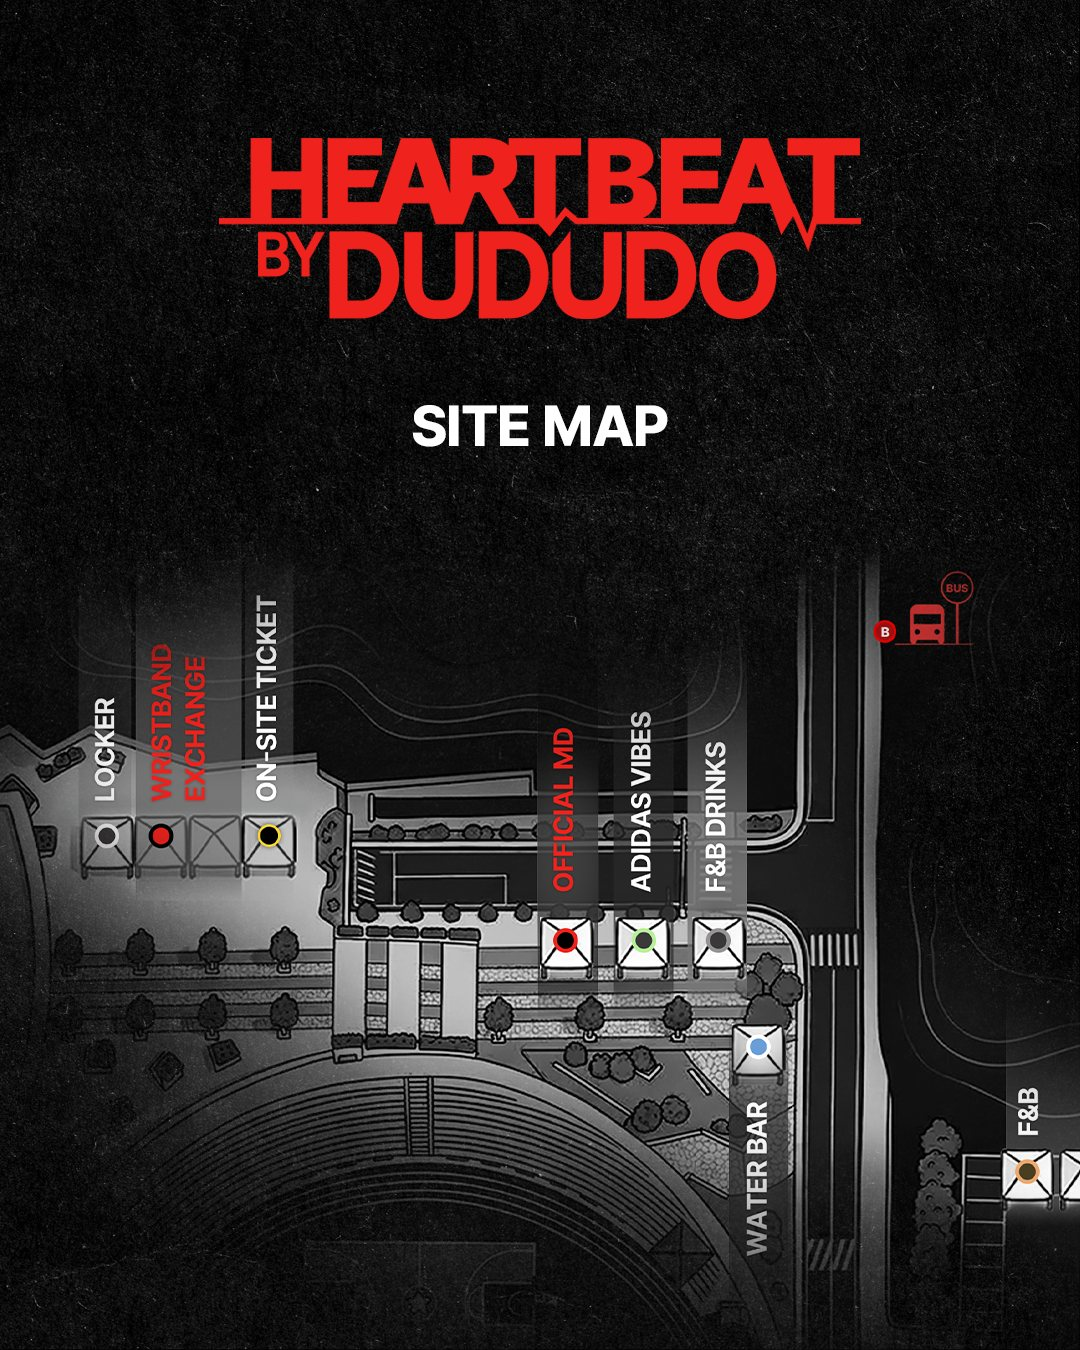
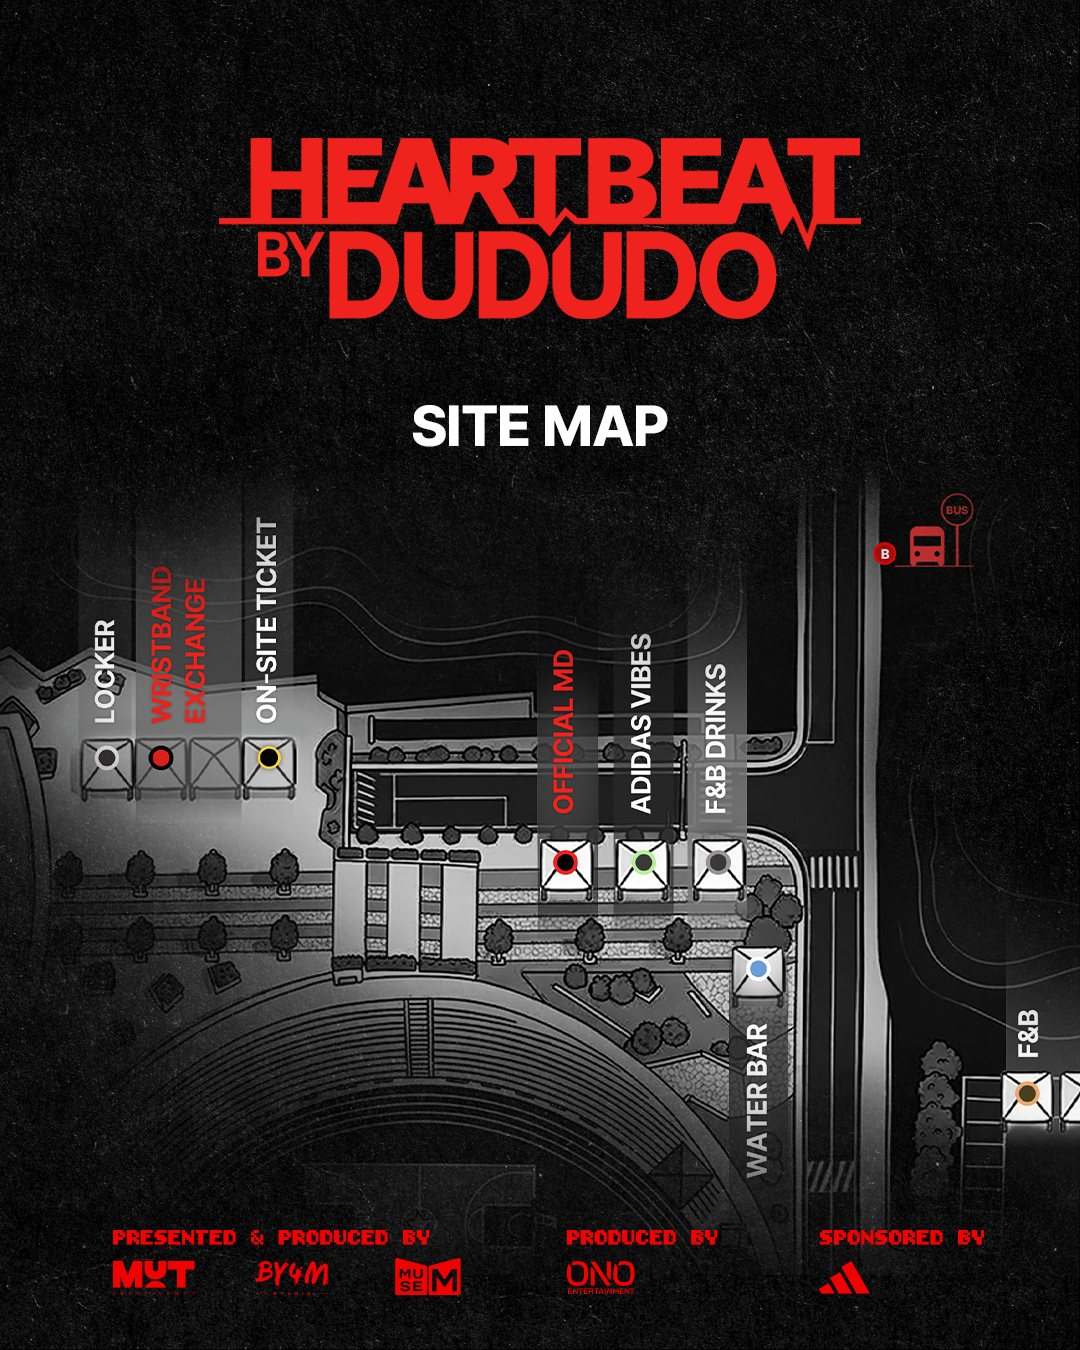
HEARTBEAT site map: final cover with sponsor credits
Claude-Session: https://claude.ai/code/session_013oSDXvmgYoZt2EAcoYnXYj

Changed region(s): [[0.0, 0.3733, 1.0, 0.9644], [0.8556, 0.6844, 0.8861, 0.7156]]

diff --git a/index.html b/index.html
@@ -4443,7 +4443,7 @@
         '<p class="cosmos-copy">관객이 행사장 안의 부스 위치를 미리 확인할 수 있도록 만든 인스타그램 캐러셀 게시물입니다. 표지에서는 전체 맵을 한눈에 보여주고, 2·3번 장은 한 장의 맵을 둘로 나눠 넘기면 그대로 이어지도록 구성했습니다. 물품보관소·밴드 교환 부스·초대석/현장판매, 셔틀버스·MD·아디다스 바이브·F&amp;B 음료·워터바·F&amp;B 위치를 컬러 포인트로 구분했습니다.</p>' +
       '</div>' +
       '<div class="hbsm">' +
-        '<figure class="hbsm-cover"><img src="' + HB + 'hb-sitemap-01.jpg?v=3" alt="HEARTBEAT SITE MAP 캐러셀 표지 — 전체 행사장 맵" loading="lazy" decoding="async"><figcaption><b>01 · COVER</b>전체 맵을 한눈에</figcaption></figure>' +
+        '<figure class="hbsm-cover"><img src="' + HB + 'hb-sitemap-01.jpg?v=4" alt="HEARTBEAT SITE MAP 캐러셀 표지 — 전체 행사장 맵" loading="lazy" decoding="async"><figcaption><b>01 · COVER</b>전체 맵을 한눈에</figcaption></figure>' +
         '<figure class="hbsm-pan"><div class="hbsm-pair"><img src="' + HB + 'hb-sitemap-02.jpg?v=2" alt="SITE MAP 2장 — 물품보관소·밴드 교환 부스·초대석/현장판매" loading="lazy" decoding="async"><img src="' + HB + 'hb-sitemap-03.jpg?v=2" alt="SITE MAP 3장 — 셔틀버스·MD·아디다스 바이브·F&amp;B 음료·워터바·F&amp;B" loading="lazy" decoding="async"><span class="hbsm-seam" aria-hidden="true"><i>SWIPE</i></span></div><figcaption><b>02 → 03 · SEAMLESS</b>넘기면 한 장으로 이어지는 상세 맵</figcaption></figure>' +
       '</div>' +
     '</div>'
